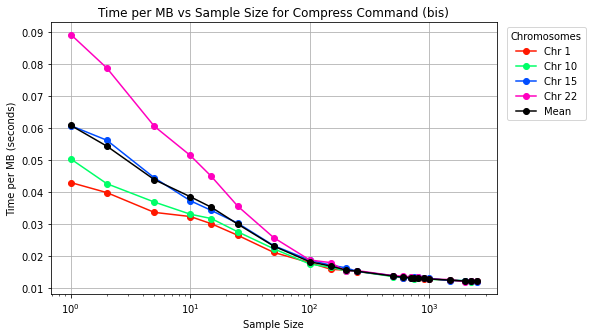
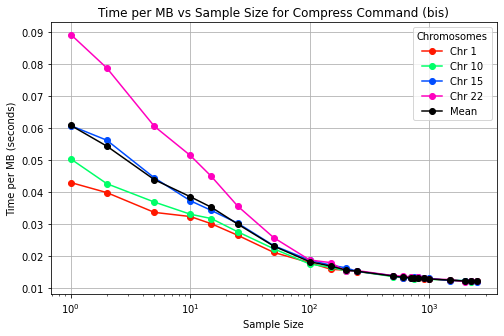
Update plots

diff --git a/Codes/TimePerMB_vs_SampleSize.py b/Codes/TimePerMB_vs_SampleSize.py
@@ -169,7 +169,7 @@ plt.ylabel('Time per MB (seconds)')
 plt.xscale("log")
 titre = 'Time per MB vs Sample Size for Compress Command (bis)'
 plt.title(titre)
-plt.legend(title='Chromosomes',bbox_to_anchor=(1.21, 1))
+plt.legend(title='Chromosomes')#,bbox_to_anchor=(1.21, 1))
 plt.grid(True)
 plt.savefig("E:\VM_data\Git\VCF_compression_benchmarking\Images\\" + titre, bbox_inches='tight')
 plt.show()
@@ -184,7 +184,7 @@ plt.ylabel('Time per MB (seconds)')
 plt.xscale("log")
 titre = 'Time per MB vs Sample Size for Decompress Command (bis)'
 plt.title(titre)
-plt.legend(title='Chromosomes',bbox_to_anchor=(1.21, 1))
+plt.legend(title='Chromosomes')#,bbox_to_anchor=(1.21, 1))
 plt.grid(True)
 plt.savefig("E:\VM_data\Git\VCF_compression_benchmarking\Images\\" + titre, bbox_inches='tight')
 plt.show()
@@ -199,7 +199,7 @@ plt.ylabel('Time per MB (seconds)')
 plt.xscale("log")
 titre = 'Time per MB vs Sample Size for Decompress_One_Sample Command'
 plt.title(titre)
-plt.legend(title='Chromosomes',bbox_to_anchor=(1.21, 1))
+plt.legend(title='Chromosomes')#,bbox_to_anchor=(1.21, 1))
 plt.grid(True)
 plt.savefig("E:\VM_data\Git\VCF_compression_benchmarking\Images\\" + titre, bbox_inches='tight')
 plt.show()
@@ -214,7 +214,7 @@ plt.xscale("log")
 plt.ylabel('Time per MB (seconds)')
 titre = 'Time per MB vs Sample Size for Random Access Command (bis)'
 plt.title(titre)
-plt.legend(title='Chromosomes',bbox_to_anchor=(1.21, 1))
+plt.legend(title='Chromosomes')#,bbox_to_anchor=(1.21, 1))
 plt.grid(True)
 plt.savefig("E:\VM_data\Git\VCF_compression_benchmarking\Images\\" + titre, bbox_inches='tight')
 plt.show()
@@ -229,7 +229,7 @@ plt.xlabel('Sample Size')
 plt.ylabel('Time (seconds)')
 titre = 'Time vs Sample Size for Random Access Command (bis)'
 plt.title(titre)
-plt.legend(title='Chromosomses',bbox_to_anchor=(1.21, 1))
+plt.legend(title='Chromosomses')#,bbox_to_anchor=(1.21, 1))
 plt.grid(True)
 plt.savefig("E:\VM_data\Git\VCF_compression_benchmarking\Images\\" + titre, bbox_inches='tight')
 plt.show()
@@ -244,7 +244,7 @@ plt.xscale("log")
 plt.ylabel('Time (seconds)')
 titre = 'Time vs Sample Size for Random Access Command (bis) non log-scale'
 plt.title(titre)
-plt.legend(title='Chromosomses',bbox_to_anchor=(1.21, 1))
+plt.legend(title='Chromosomses')#,bbox_to_anchor=(1.21, 1))
 plt.grid(True)
 plt.savefig("E:\VM_data\Git\VCF_compression_benchmarking\Images\\" + titre, bbox_inches='tight')
 plt.show()
@@ -259,7 +259,7 @@ plt.xscale("log")
 plt.ylabel('Time per MB (seconds)')
 titre = 'Time per MB vs Sample Size for Random Access_one_sample Command'
 plt.title(titre)
-plt.legend(title='Chromosomes',bbox_to_anchor=(1.21, 1))
+plt.legend(title='Chromosomes')#,bbox_to_anchor=(1.21, 1))
 plt.grid(True)
 plt.savefig("E:\VM_data\Git\VCF_compression_benchmarking\Images\\" + titre, bbox_inches='tight')
 plt.show()
@@ -274,7 +274,7 @@ plt.xlabel('Sample Size')
 plt.ylabel('Time (seconds)')
 titre = 'Time vs Sample Size for Random Access_one_sample Command non log-scale'
 plt.title(titre)
-plt.legend(title='Chromosomses',bbox_to_anchor=(1.21, 1))
+plt.legend(title='Chromosomses')#,bbox_to_anchor=(1.21, 1))
 plt.grid(True)
 plt.savefig("E:\VM_data\Git\VCF_compression_benchmarking\Images\\" + titre, bbox_inches='tight')
 plt.show()
@@ -289,7 +289,7 @@ plt.xscale("log")
 plt.ylabel('Time (seconds)')
 titre = 'Time vs Sample Size for Random Access_one_sample Command'
 plt.title(titre)
-plt.legend(title='Chromosomses',bbox_to_anchor=(1.21, 1))
+plt.legend(title='Chromosomses')#,bbox_to_anchor=(1.21, 1))
 plt.grid(True)
 plt.savefig("E:\VM_data\Git\VCF_compression_benchmarking\Images\\" + titre, bbox_inches='tight')
 plt.show()

diff --git a/Codes/RAMperMB_vs_SampleSize.py b/Codes/RAMperMB_vs_SampleSize.py
@@ -136,7 +136,7 @@ plt.ylabel('RAM per MB ')
 plt.xscale("log")
 titre = 'RAM per MB vs Sample Size for Compress Command (bis)'
 plt.title(titre)
-plt.legend(title='Chromosomes',bbox_to_anchor=(1.2, 1.1))
+plt.legend(title='Chromosomes')#,bbox_to_anchor=(1.2, 1.1))
 plt.grid(True)
 plt.savefig("E:\VM_data\Git\VCF_compression_benchmarking\Images\\" + titre, bbox_inches='tight')
 plt.show()
@@ -151,7 +151,7 @@ plt.ylabel('RAM per MB')
 plt.xscale("log")
 titre = 'RAM per MB vs Sample Size for Decompress Command (bis)'
 plt.title(titre)
-plt.legend(title='Chromosomes',bbox_to_anchor=(1.2, 1.1))
+plt.legend(title='Chromosomes')#,bbox_to_anchor=(1.2, 1.1))
 plt.grid(True)
 plt.savefig("E:\VM_data\Git\VCF_compression_benchmarking\Images\\" + titre, bbox_inches='tight')
 plt.show()
@@ -166,7 +166,7 @@ plt.ylabel('RAM per MB')
 plt.xscale("log")
 titre = 'RAM per MB vs Sample Size for Decompress_one_sample Command (bis)'
 plt.title(titre)
-plt.legend(title='Chromosomes',bbox_to_anchor=(1.2, 1.1))
+plt.legend(title='Chromosomes')#,bbox_to_anchor=(1.2, 1.1))
 plt.grid(True)
 plt.savefig("E:\VM_data\Git\VCF_compression_benchmarking\Images\\" + titre, bbox_inches='tight')
 plt.show()
@@ -181,7 +181,7 @@ plt.ylabel('RAM per MB')
 plt.xscale("log")
 titre = 'RAM per MB vs Sample Size for random_access Command (bis)'
 plt.title(titre)
-plt.legend(title='Chromosomes',bbox_to_anchor=(1.2, 1.1))
+plt.legend(title='Chromosomes')#,bbox_to_anchor=(1.2, 1.1))
 plt.grid(True)
 plt.savefig("E:\VM_data\Git\VCF_compression_benchmarking\Images\\" + titre, bbox_inches='tight')
 plt.show()
@@ -196,7 +196,7 @@ plt.ylabel('RAM per MB')
 plt.xscale("log")
 titre = 'RAM per MB vs Sample Size for random_access_one_sample Command (bis)'
 plt.title(titre)
-plt.legend(title='Chromosomes',bbox_to_anchor=(1.2, 1.1))
+plt.legend(title='Chromosomes')#,bbox_to_anchor=(1.2, 1.1))
 plt.grid(True)
 plt.savefig("E:\VM_data\Git\VCF_compression_benchmarking\Images\\" + titre, bbox_inches='tight')
 plt.show()
